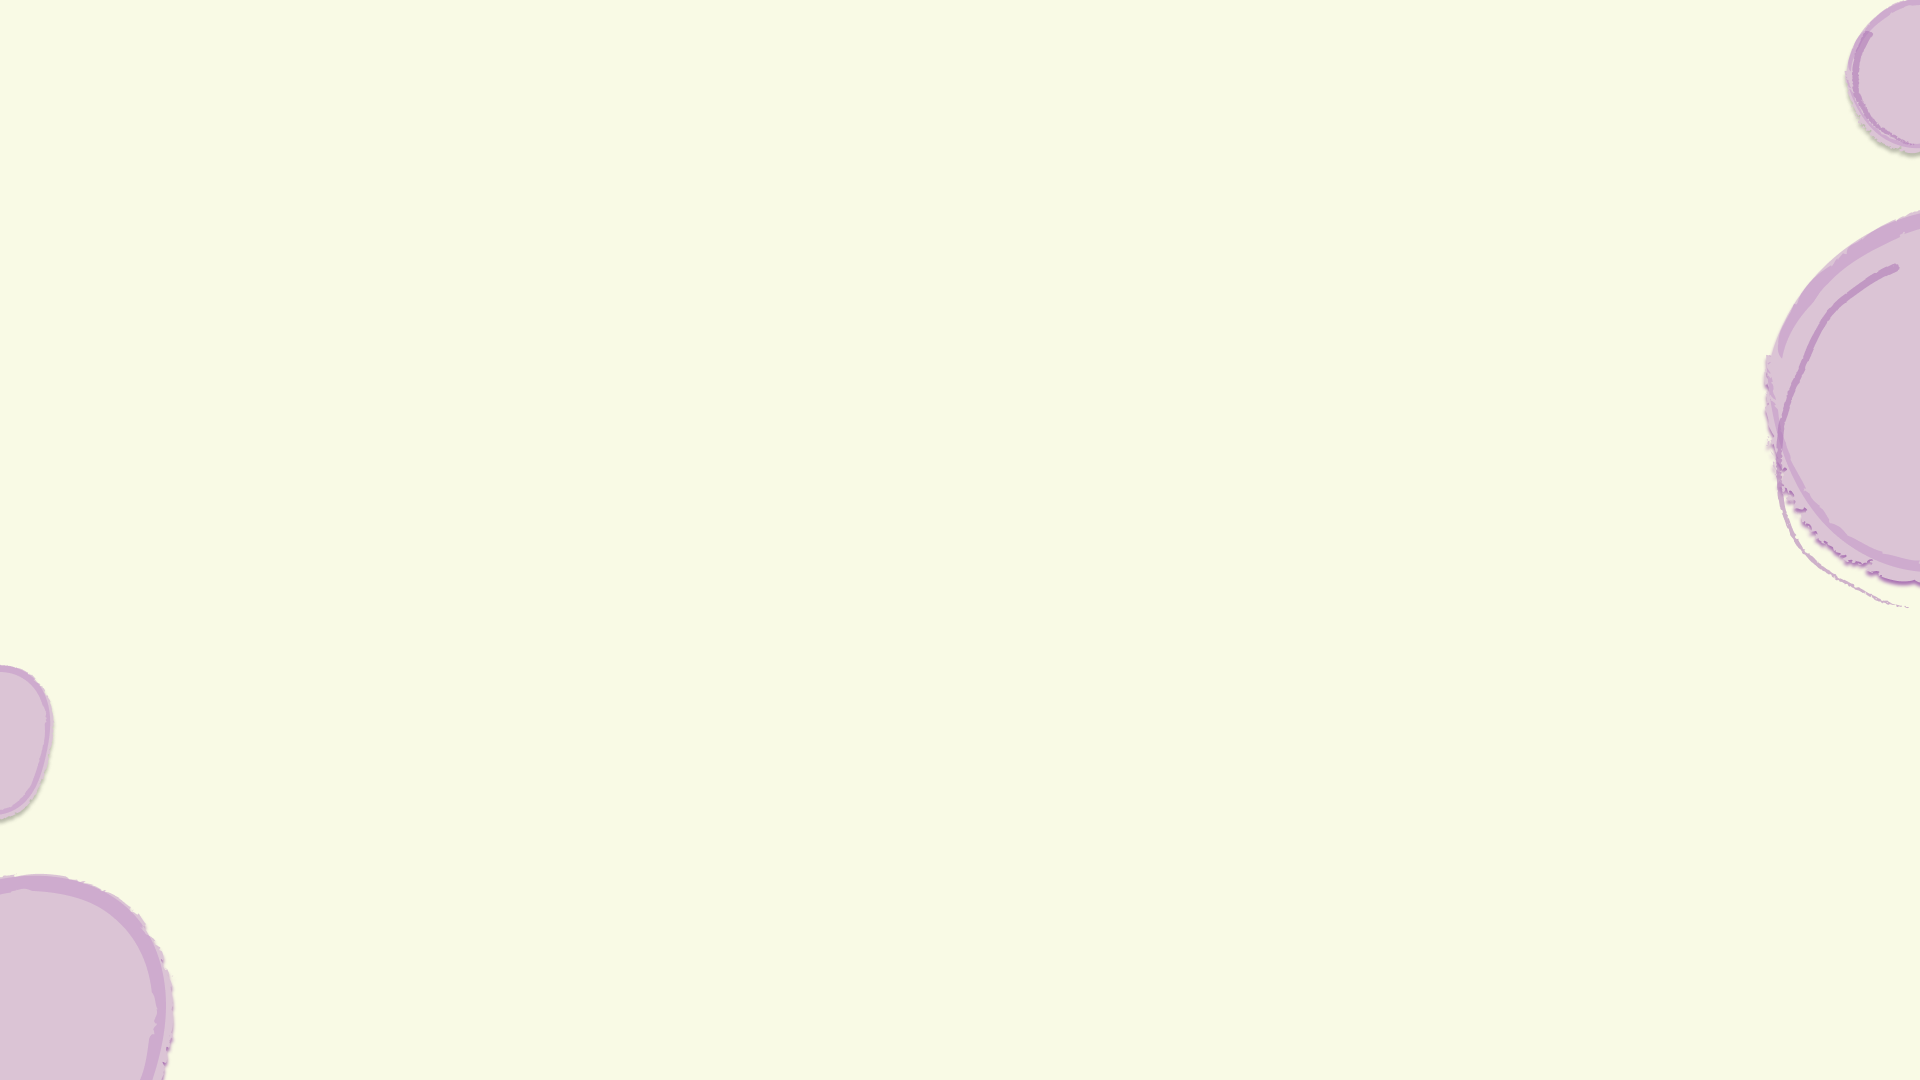
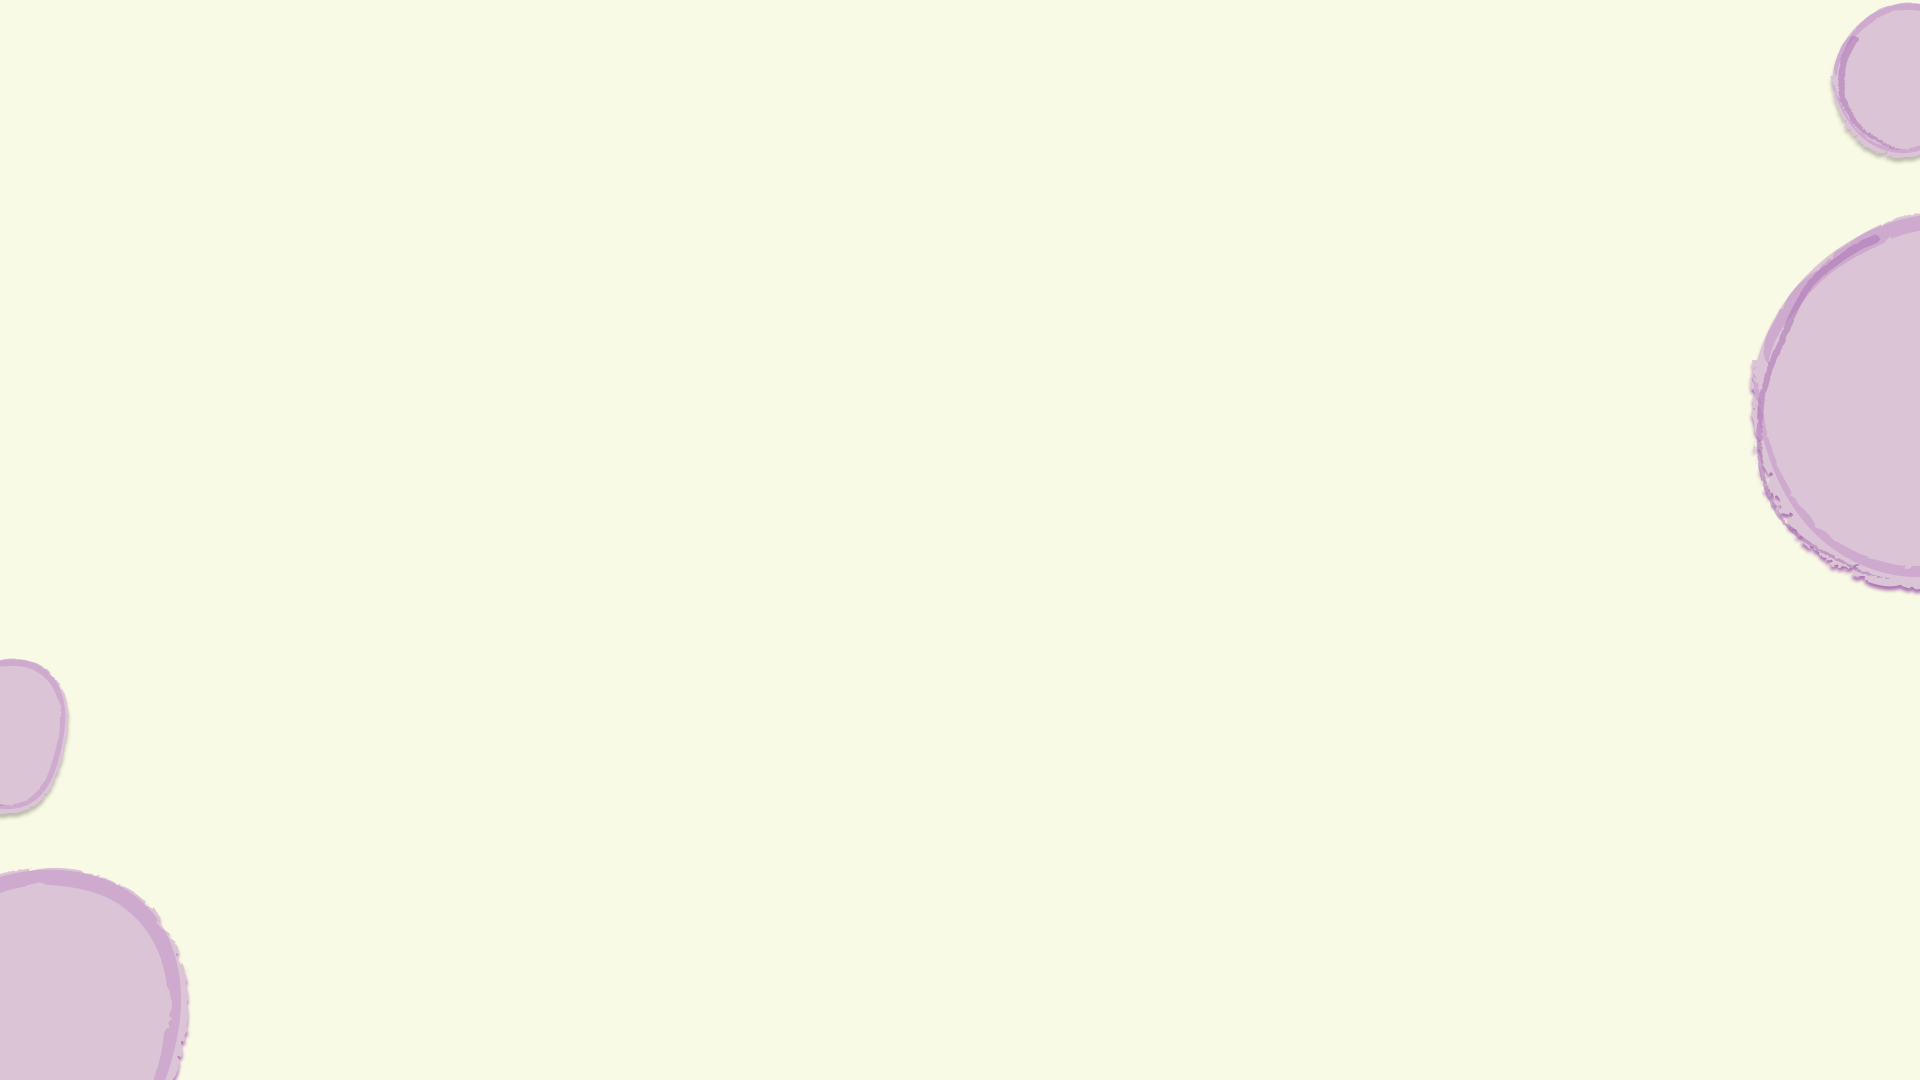
subo nuevos cambios

diff --git a/estilos.css b/estilos.css
@@ -673,7 +673,7 @@ footer {
 
 
 body {
-  background-image: url("../img/fondoload.png"); /* Esta ruta asume que estilos.css está en 'css/'. Si no, ajusta a "img/fondoload.png" */
+  background-image: url("img/fondoload.png"); 
   background-size: cover;
   background-position: center;
   background-repeat: no-repeat;
@@ -699,15 +699,9 @@ body {
   text-align: center;
 }
 
-.contenedor-loader p {
-  font-weight: 700;
-  font-size: 2.5em;
-  margin-top: 20px;
-  margin-bottom: 30px;
-  color: #094c9b;
-}
 
-/* Animación de giro para la imagen .cargando (circulo.png) */
+
+/* Animación de giro para la imagen */
 @keyframes girar {
   from {
     transform: rotate(0deg);
@@ -718,24 +712,15 @@ body {
 }
 
 .cargando {
-  animation: girar 2s linear infinite; /* ¡Esto hará que tu imagen circulo.png gire! */
-  width: 150px;
-  height: 150px;
+  animation: girar 2s linear infinite; 
+  width: 200px;
+  height: 200px;
 }
 
 .loader-circle {
-  display: none; /* ¡¡¡Esta línea OCULTA el div de progreso que no quieres ver!!! */
+  display: none; 
 }
 
-/* @keyframes cargar ya no es funcional si .loader-circle está oculto */
-@keyframes cargar {
-  from {
-    transform: rotate(0deg);
-  }
-  to {
-    transform: rotate(360deg);
-  }
-}
 
 .contenedor-listo {
   display: none;
@@ -754,31 +739,37 @@ body {
 }
 
 .texto-listo {
-  font-size: 2.5em;
-  font-weight: 700;
+  font-size: 70px;
+  font-weight: 300;
   margin-bottom: 30px;
   color: #094c9b;
 }
 
 .check-final {
-  width: 100px;
-  height: 100px;
+  width: 200px;
+  height: 200px;
   margin-bottom: 40px;
 }
 
 .boton-volver {
   display: inline-block;
   padding: 15px 30px;
-  background-color: #094c9b;
-  color: white;
+  background-color: #E4E9F4;
+  color: #0B53AA; 
   text-decoration: none;
   border-radius: 8px;
-  font-size: 1.2em;
-  transition: background-color 0.3s ease;
+  font-family: 'Baloo', cursive;
+  font-size: 24px;
+  transition: background-color 0.3s ease, color 0.3s ease; 
+  width: 200px;
+  display: flex;
+  align-items: center;
+  justify-content: center;
 }
 
 .boton-volver:hover {
-  background-color: #063a75;
+  background-color: #063a75; 
+  color: #FFFFFF; 
 }
 
 @keyframes scaleIn {

diff --git a/circulo.html b/circulo.html
@@ -8,13 +8,15 @@
 </head>
 <body>
 <div class="fondo">
-  <div class="contenedor-loader" id="loader">     <img src="img/circulo.png" alt="Cargando" class="cargando"> 
-    <p>Enviando</p>
-    <div class="loader-circle"></div>   </div>
+   <div class="contenedor-loader" id="loader">  
+    <h3>Enviando</h3><img src="img/circulo.png" alt="Cargando" class="cargando"> 
+    <div class="loader-circle"></div> </div>
 
-  <div class="contenedor-listo" id="listo" style="display: none;"> <p class="texto-listo">¡Listo!</p>
-    <img src="img/Check.png" alt="Tilde" class="check-final"> <a href="index.html" class="boton-volver">Volver al inicio</a>
-  </div>
+  <div class="contenedor-listo" id="listo" style="display: none;"> 
+    <h3  class="texto-listo">¡Listo!</h3>
+    <img src="img/check.png" alt="Tilde" class="check-final"> 
+      <a href="index.html" class="boton-volver">Volver al inicio</a>
+  </div>
 </div>
 
 <script src="script.js"></script>
